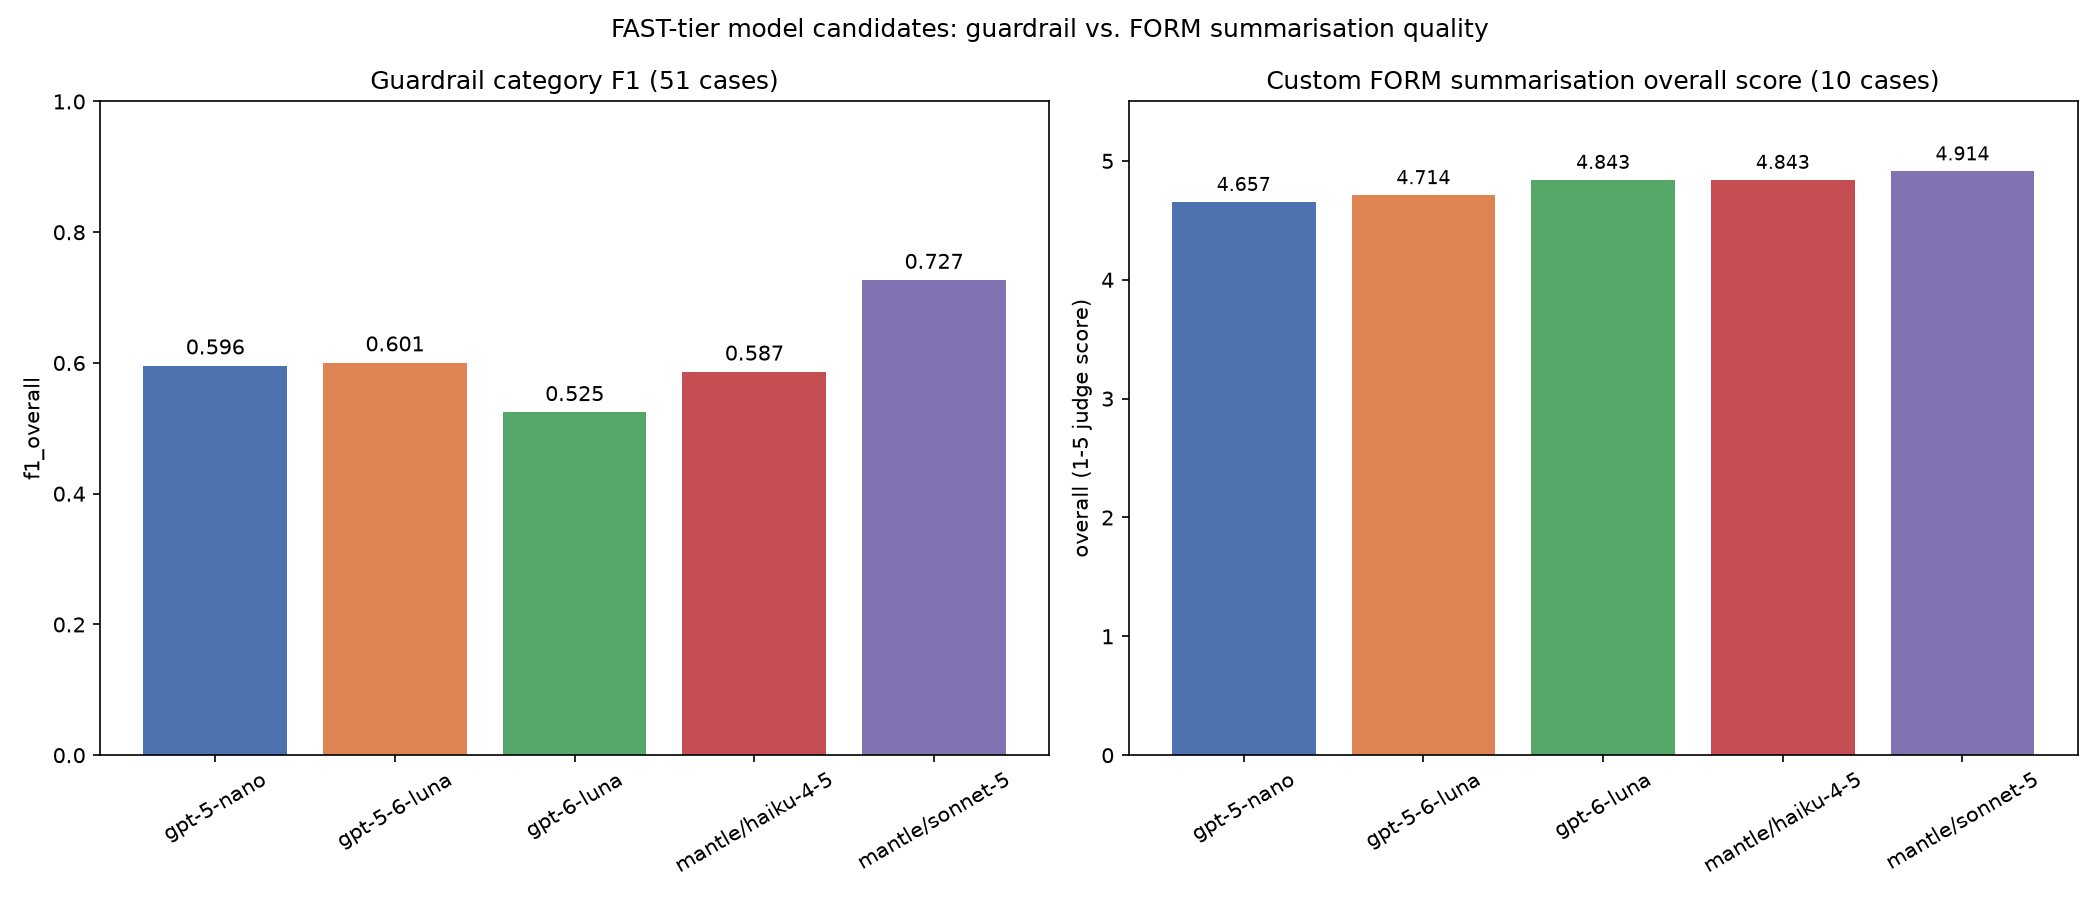
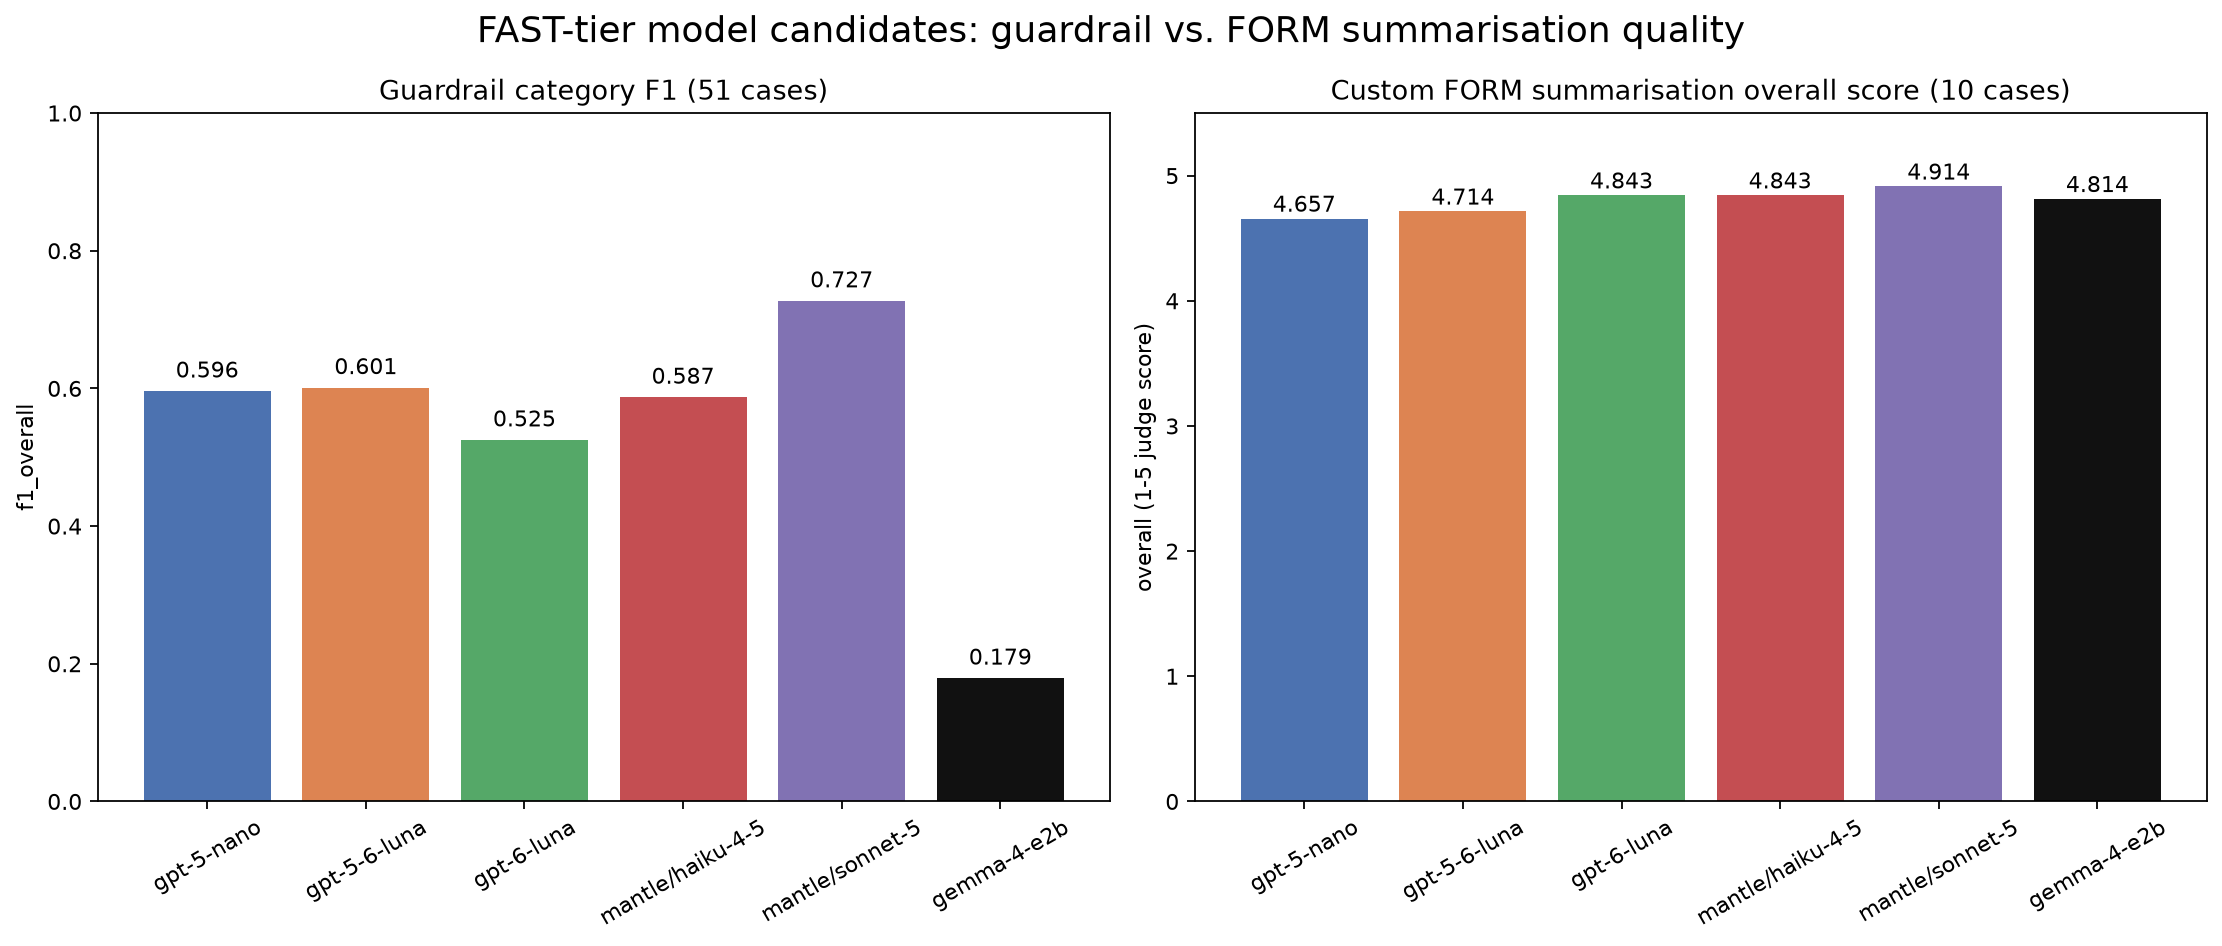
feat: adding the Gemma E4B results

diff --git a/documentation/env_assets/llm_cost.py b/documentation/env_assets/llm_cost.py
@@ -99,6 +99,8 @@ PRICES = {
 # https://azure.microsoft.com/en-us/pricing/details/azure-openai/ and
 # https://aws.amazon.com/bedrock/pricing/. gpt-6-luna uses the short-context Data Zone
 # tier; it roughly doubles if a transcript pushes a call into the long-context tier.
+# Gemma 4 E2B uses the exact Bedrock Europe (Frankfurt) standard price. Bedrock does not
+# publish a discounted cached-input price for this model, so cached input is priced as input.
 # gpt-5-nano and gpt-5.1 reuse the PRICES entries above rather than a fresh USD
 # conversion, so the baseline row matches the headline figures exactly.
 _USD_TO_GBP = 0.74
@@ -107,11 +109,19 @@ FAST_MODEL_CANDIDATES_USD = {
     "gpt-6-luna": (0.11, 0.011, 0.55),
     "haiku-4-5": (1.10, 0.11, 5.50),
     "sonnet-5": (2.20, 0.22, 11.00),
+    "gemma-4-e2b": (0.05, 0.05, 0.10),
 }
-FAST_MODEL_CANDIDATES = {
+FAST_MODEL_CANDIDATES: dict[str, tuple[float, float, float]] = {
     "gpt-5-nano": PRICES["fast"],  # current FAST_LLM_MODEL_NAME, for reference
     "gpt-5.1": PRICES["best"],  # current BEST_LLM_MODEL_NAME, for reference
-    **{name: tuple(p * _USD_TO_GBP for p in prices) for name, prices in FAST_MODEL_CANDIDATES_USD.items()},
+    **{
+        name: (
+            prices[0] * _USD_TO_GBP,
+            prices[1] * _USD_TO_GBP,
+            prices[2] * _USD_TO_GBP,
+        )
+        for name, prices in FAST_MODEL_CANDIDATES_USD.items()
+    },
 }
 
 # Azure AI Speech standard transcription, UK South, GBP per hour of audio:
@@ -348,7 +358,7 @@ def fast_model_comparison(m: Meeting) -> list[tuple[str, float, float]]:
     return rows
 
 
-BOTH_TIER_CANDIDATES = ["gpt-6-luna", "haiku-4-5", "sonnet-5"]
+BOTH_TIER_CANDIDATES = ["gpt-6-luna", "haiku-4-5", "sonnet-5", "gemma-4-e2b"]
 
 
 def both_tier_model_comparison(m: Meeting) -> list[tuple[str, str, float]]:
@@ -363,12 +373,12 @@ def both_tier_model_comparison(m: Meeting) -> list[tuple[str, str, float]]:
     rows = []
     try:
         for name in BOTH_TIER_CANDIDATES:
-            PRICES["fast"] = PRICES["best"] = FAST_MODEL_CANDIDATES[name]  # type: ignore[assignment]
+            PRICES["fast"] = PRICES["best"] = FAST_MODEL_CANDIDATES[name]
             total = cost(weighted(m, citation_tier="best"))
             rows.append((f"All-{name}", f"BEST=FAST={name}", total))
 
-        PRICES["best"] = FAST_MODEL_CANDIDATES["sonnet-5"]  # type: ignore[assignment]
-        PRICES["fast"] = FAST_MODEL_CANDIDATES["haiku-4-5"]  # type: ignore[assignment]
+        PRICES["best"] = FAST_MODEL_CANDIDATES["sonnet-5"]
+        PRICES["fast"] = FAST_MODEL_CANDIDATES["haiku-4-5"]
         total = cost(weighted(m, citation_tier="best"))
         rows.append(("FAST=haiku, BEST=sonnet", "BEST=sonnet-5, FAST=haiku-4-5", total))
     finally:

diff --git a/documentation/model_comparison/nov2026/GUARDRAILS_AND_FORM_FAST_REPLACEMENT.md b/documentation/model_comparison/nov2026/GUARDRAILS_AND_FORM_FAST_REPLACEMENT.md
@@ -6,22 +6,23 @@ Raw data in Sharepoint, `model_comparison_november_2026`
 
 ## Guardrail eval (accuracy category, 51 cases each, all models 51/51 complete)
 
-| Metric | gpt-5-nano (prod) | gpt-5-6-luna | gpt-6-luna | haiku-4-5 | sonnet-5 |
-|---|---:|---:|---:|---:|---:|
-| Overall F1 | 0.596 | 0.601 | 0.525 | 0.587 | **0.727** |
-| Exact category match | **70.6%** | 35.3% | 17.6% | 58.8% | **70.6%** |
-| f1_no_issue (clean cases) | **0.773** | 0.400 | 0.000 | 0.745 | 0.588 |
-| f1_factual_integrity | 0.870 | 0.522 | 0.533 | **0.880** | 0.800 |
-| f1_evidence_and_citation_quality | **0.727** | 0.250 | 0.178 | 0.167 | 0.615 |
-| f1_required_content_and_structure | 0.444 | **0.800** | 0.769 | 0.000 | 0.500 |
-| f1_instruction_integrity | 0.500 | 0.632 | 0.667 | 0.727 | **1.000** |
-| Guardrail-only cost (£/1,000 meetings) | **1.30** | 10.37 | 2.60 | 25.99 | 51.99 |
+| Metric | gpt-5-nano (prod) | gpt-5-6-luna | gpt-6-luna | haiku-4-5 | sonnet-5 | gemma-4-e2b |
+|---|---:|---:|---:|---:|---:|---:|
+| Overall F1 | 0.596 | 0.601 | 0.525 | 0.587 | **0.727** | 0.179 |
+| Exact category match | **70.6%** | 35.3% | 17.6% | 58.8% | **70.6%** | 41.2% |
+| f1_no_issue (clean cases) | **0.773** | 0.400 | 0.000 | 0.745 | 0.588 | 0.571 |
+| f1_factual_integrity | 0.870 | 0.522 | 0.533 | **0.880** | 0.800 | 0.000 |
+| f1_evidence_and_citation_quality | **0.727** | 0.250 | 0.178 | 0.167 | 0.615 | 0.000 |
+| f1_required_content_and_structure | 0.444 | **0.800** | 0.769 | 0.000 | 0.500 | 0.000 |
+| f1_instruction_integrity | 0.500 | 0.632 | 0.667 | 0.727 | **1.000** | 0.000 |
+| Guardrail-only cost (£/1,000 meetings) | 1.30 | 10.37 | 2.60 | 25.99 | 51.99 | **1.16** |
 
 ## Custom FORM summarisation eval (10 cases each, FAST-tier only)
 
-| Metric | gpt-5-nano (prod) | gpt-5-6-luna | gpt-6-luna | haiku-4-5 | sonnet-5 |
-|---|---:|---:|---:|---:|---:|
-| **Overall score (/5)** | 4.66 | 4.71 | 4.84 | 4.84 | **4.91** |
-| Summarise latency p50 (s) | 72.2 | 15.4 | 16.5 | **8.8** | 17.9 |
+| Metric | gpt-5-nano (prod) | gpt-5-6-luna | gpt-6-luna | haiku-4-5 | sonnet-5 | gemma-4-e2b |
+|---|---:|---:|---:|---:|---:|---:|
+| **Overall score (/5)** | 4.66 | 4.71 | 4.84 | 4.84 | **4.91** | 4.81 |
+| Summarise latency p50 (s) | 72.2 | 15.4 | 16.5 | **8.8** | 17.9 | 105.3 |
 
 Bedrock (`haiku-4-5`, `sonnet-5`) results use the same 10-case custom FORM eval.
+Gemma completed 10/10 cases using LM Studio for FAST generation and `gpt5-1` as judge.

diff --git a/documentation/model_comparison/nov2026/SUMMARISATION_MODEL_COMPARISON.md b/documentation/model_comparison/nov2026/SUMMARISATION_MODEL_COMPARISON.md
@@ -17,6 +17,24 @@ Raw data in Sharepoint, `model_comparison_november_2026`
 | GPT 5-1 with Luna (citing) | £0.11 | 4.79 ± 0.53 | 160 | 10.0% |
 | GPT 5-1 with Nano (citing) | £0.10 | 4.48 ± 0.93 | 226 | 13.8% |
 | All GPT 6 Luna | £0.02 | 4.88 ± 0.51 | 160 | 10.0% |
+| GPT 6 Luna (citing) with Gemma 4 E2B | £0.015 | 4.89 ± 0.43 | 160 | 10.0% |
 | All GPT 5 Nano | £0.01 | 4.28 ± 0.97 | 226 | 24.1% |
+| GPT 6 Luna with Gemma 4 E2B (citing) | £0.010 | 4.61 ± 0.79 | 160 | 20.0% (90.0% citation gate) |
+| All Gemma 4 E2B | £0.006 | 4.21 ± 1.14 | 160 | 50.0% |
 
 \* Fail share: % of examples with ≥1 rubric dimension below its pass bar (strict dims ≥4, others ≥3).
+
+Gemma costs use the exact Amazon Bedrock Europe (Frankfurt) standard price for Gemma 4 E2B:
+$0.05 input and $0.10 output per million tokens, converted at $1 = £0.74. Bedrock does not
+publish a discounted cached-input price for this model, so cached input is priced as input.
+
+The corrected mixed Luna/Gemma run counts structured support claims as uncited when Gemma does not
+render their corresponding `[n]` markers. It failed the citation gate in 18 of 20 cases, with an
+85.1% uncited-claim rate (137 uncited claims, 24 supported). Sixteen outputs contained no rendered
+citation markers. The ordinary rubric fail share is 20%; the separate citation gate failure share is
+90%.
+
+The Luna-summarising-and-citing/Gemma-FAST run completed all 20 examples. It produced no summaries
+without rendered citation markers; citation outcomes were 13 pass, 6 review, and 1 fail. This
+summarisation eval has no non-citation FAST stage, so its quality calls are Luna-only. The £0.015 cost
+applies Gemma 4 E2B pricing to the production FAST tasks outside this eval.
